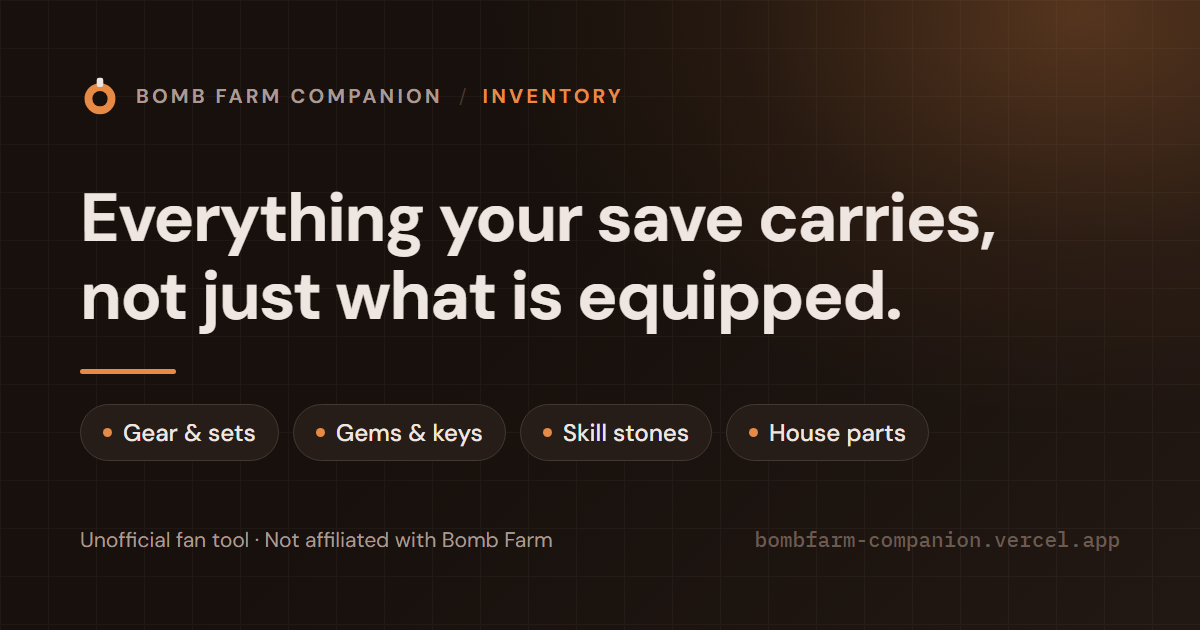
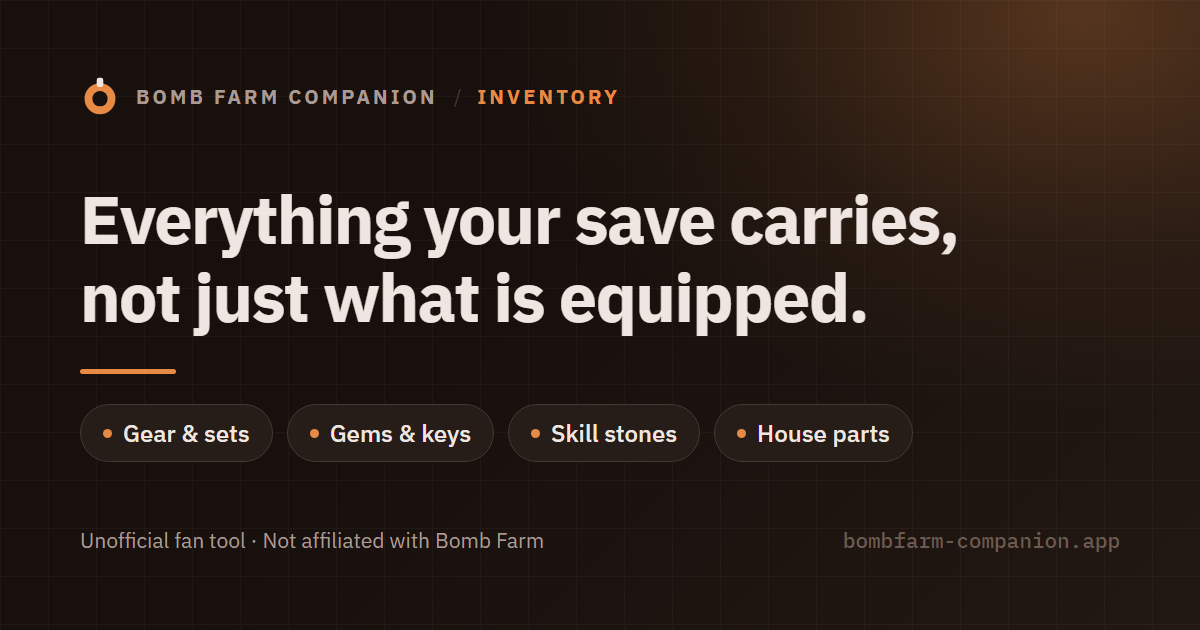
fix(web): serve the site's own address, bombfarm-companion.app

diff --git a/apps/web/src/tests/link-preview.test.ts b/apps/web/src/tests/link-preview.test.ts
@@ -1,6 +1,7 @@
 import { existsSync, readdirSync, readFileSync } from 'node:fs';
 import path from 'node:path';
 import { describe, expect, it } from 'vitest';
+import { SITE_HOST, SITE_URL } from '@bombfarm/ui/site-address';
 import previews from '@/shared/lib/site-previews.json';
 import {
   SECTION_PREVIEWS,
@@ -72,6 +73,17 @@ describe('link preview', () => {
 
     const manifest = JSON.parse(readFileSync(manifestPath, 'utf8')) as { renderedFrom: unknown };
     expect(manifest.renderedFrom).toEqual(previews);
+  });
+
+  it('prints the address the site is served at on every card', () => {
+    const manifestPath = path.resolve(__dirname, '../../scripts/og-manifest.json');
+    const manifest = JSON.parse(readFileSync(manifestPath, 'utf8')) as { footerUrl: unknown };
+    expect(manifest.footerUrl).toBe(SITE_HOST);
+  });
+
+  it('advertises the sitemap at the address the site is served at', () => {
+    const robots = readFileSync(publicFile('/robots.txt'), 'utf8');
+    expect(robots).toContain(`Sitemap: ${SITE_URL}/sitemap.xml`);
   });
 
   /**

diff --git a/packages/ui/src/site-address.test.ts b/packages/ui/src/site-address.test.ts
@@ -1,0 +1,12 @@
+import { describe, expect, it } from 'vitest';
+import { SITE_HOST, SITE_URL } from './site-address';
+
+describe('site address', () => {
+  it('is the custom domain, not the hosting provider default', () => {
+    expect(SITE_URL).toBe('https://bombfarm-companion.app');
+  });
+
+  it('prints as the bare host', () => {
+    expect(SITE_HOST).toBe('bombfarm-companion.app');
+  });
+});

diff --git a/apps/web/src/shared/lib/site-metadata.ts b/apps/web/src/shared/lib/site-metadata.ts
@@ -1,8 +1,9 @@
 import type { Metadata } from 'next';
+import { SITE_URL } from '@bombfarm/ui/site-address';
 import previews from './site-previews.json';
 import { SITE_SECTION_HREF, type SiteSection } from './site-sections';
 
-export const SITE_URL = 'https://bombfarm-companion.vercel.app';
+export { SITE_URL };
 export const SITE_NAME = 'Bomb Farm Companion';
 
 /**

diff --git a/packages/ui/src/site-address.ts b/packages/ui/src/site-address.ts
@@ -1,0 +1,4 @@
+export const SITE_URL = 'https://bombfarm-companion.app';
+
+/** The address without its scheme, for surfaces that print it rather than link it. */
+export const SITE_HOST = new URL(SITE_URL).host;

diff --git a/README.md b/README.md
@@ -6,7 +6,7 @@ Desktop companion and web planner for [Bomb Farm](https://store.steampowered.com
 
 Monorepo with `@bombfarm/desktop` (Electron) and `@bombfarm/web` (Next.js static export). Shared math lives in `@bombfarm/domain`; UI primitives in `@bombfarm/ui`.
 
-**Web hosts:** production [https://bombfarm-companion.vercel.app](https://bombfarm-companion.vercel.app) (`main`); pre-production preview [https://bombfarm-companion-git-develop-lucasfevi-projects.vercel.app](https://bombfarm-companion-git-develop-lucasfevi-projects.vercel.app) (`develop`, Vercel Authentication). DNS/redirect from the old planner host is manual and out of band.
+**Web hosts:** production [https://bombfarm-companion.app](https://bombfarm-companion.app) (`main`); pre-production preview [https://bombfarm-companion-git-develop-lucasfevi-projects.vercel.app](https://bombfarm-companion-git-develop-lucasfevi-projects.vercel.app) (`develop`, Vercel Authentication). DNS/redirect from the old planner host is manual and out of band.
 
 ## Requirements
 
@@ -57,7 +57,7 @@ Path-filtered GitHub Actions (quality only — **no** deploy workflow):
 
 Desktop installers are built by the **release-PR beta job** and **release-prod** — not on every `main` push. See [`docs/releases.md`](docs/releases.md).
 
-**Vercel (Git integration):** production deploys from `main` to [https://bombfarm-companion.vercel.app](https://bombfarm-companion.vercel.app). Every push to `develop` updates the pre-production preview at [https://bombfarm-companion-git-develop-lucasfevi-projects.vercel.app](https://bombfarm-companion-git-develop-lucasfevi-projects.vercel.app). That preview is behind **Vercel Authentication** and is not a shareable playtester link. No Custom Environment, custom domain, or new GitHub Actions secret is involved. Framework: Next.js. **Root Directory:** `apps/web`. Branching: [`docs/branching.md`](docs/branching.md). Prefer green `ci-web` (including `pnpm --filter @bombfarm/web build`) before treating prod as healthy.
+**Vercel (Git integration):** production deploys from `main` and is served at the custom domain [https://bombfarm-companion.app](https://bombfarm-companion.app). Every push to `develop` updates the pre-production preview at [https://bombfarm-companion-git-develop-lucasfevi-projects.vercel.app](https://bombfarm-companion-git-develop-lucasfevi-projects.vercel.app). That preview is behind **Vercel Authentication** and is not a shareable playtester link. The preview needs no Custom Environment, custom domain, or new GitHub Actions secret. Framework: Next.js. **Root Directory:** `apps/web`. Branching: [`docs/branching.md`](docs/branching.md). Prefer green `ci-web` (including `pnpm --filter @bombfarm/web build`) before treating prod as healthy.
 
 ## Version chrome
 

diff --git a/CONTRIBUTING.md b/CONTRIBUTING.md
@@ -47,7 +47,7 @@ Full release maintainer steps: [`docs/releases.md`](docs/releases.md).
 
 ## Web deploy (maintainers)
 
-**Production** ([https://bombfarm-companion.vercel.app](https://bombfarm-companion.vercel.app)): Vercel Git integration on this repo, Root Directory `apps/web`, production branch `main`.
+**Production** ([https://bombfarm-companion.app](https://bombfarm-companion.app)): Vercel Git integration on this repo, Root Directory `apps/web`, production branch `main`, served at that custom domain. The site's own address is `SITE_URL` in `packages/ui/src/site-address.ts`; the canonical tags and sitemap are built from it, and `apps/web/src/tests/link-preview.test.ts` fails when `robots.txt` or the share-card footer disagree with it.
 
 **Pre-production preview:** every push to `develop` deploys a Vercel branch preview — host and access model are in [`docs/branching.md`](docs/branching.md). Access is gated by **Vercel Authentication** (owner-only today; not a shareable playtester link).
 

diff --git a/docs/branching.md b/docs/branching.md
@@ -190,7 +190,7 @@ If you have local branches or open PRs from before the cutover:
 
 | Surface | Branch | URL | Access |
 | --- | --- | --- | --- |
-| Production | `main` | [bombfarm-companion.vercel.app](https://bombfarm-companion.vercel.app) | Public |
+| Production | `main` | [bombfarm-companion.app](https://bombfarm-companion.app) | Public |
 | Pre-production preview | `develop` | [bombfarm-companion-git-develop-lucasfevi-projects.vercel.app](https://bombfarm-companion-git-develop-lucasfevi-projects.vercel.app) | Gated by **Vercel Authentication** (owner-only today; not a shareable playtester link) |
 
 No Custom Environment, no custom domain, no new GitHub Actions secret, and no change to the Vercel Git integration is required for the develop preview.

diff --git a/.changeset/site-serves-its-own-address.md b/.changeset/site-serves-its-own-address.md
@@ -1,0 +1,6 @@
+---
+"@bombfarm/web": patch
+"@bombfarm/ui": patch
+---
+
+The web planner now names its own address, bombfarm-companion.app, everywhere it describes itself: the canonical link and link-preview address on every page, the sitemap and `robots.txt`, and the address printed on every share-card image. They all still named the old hosting address, which keeps answering without redirecting, so search engines and link previews were being pointed away from the real site. The address and its bare host form now live in one module of the shared design-system package, so the desktop app can print the same address without keeping a second copy.
